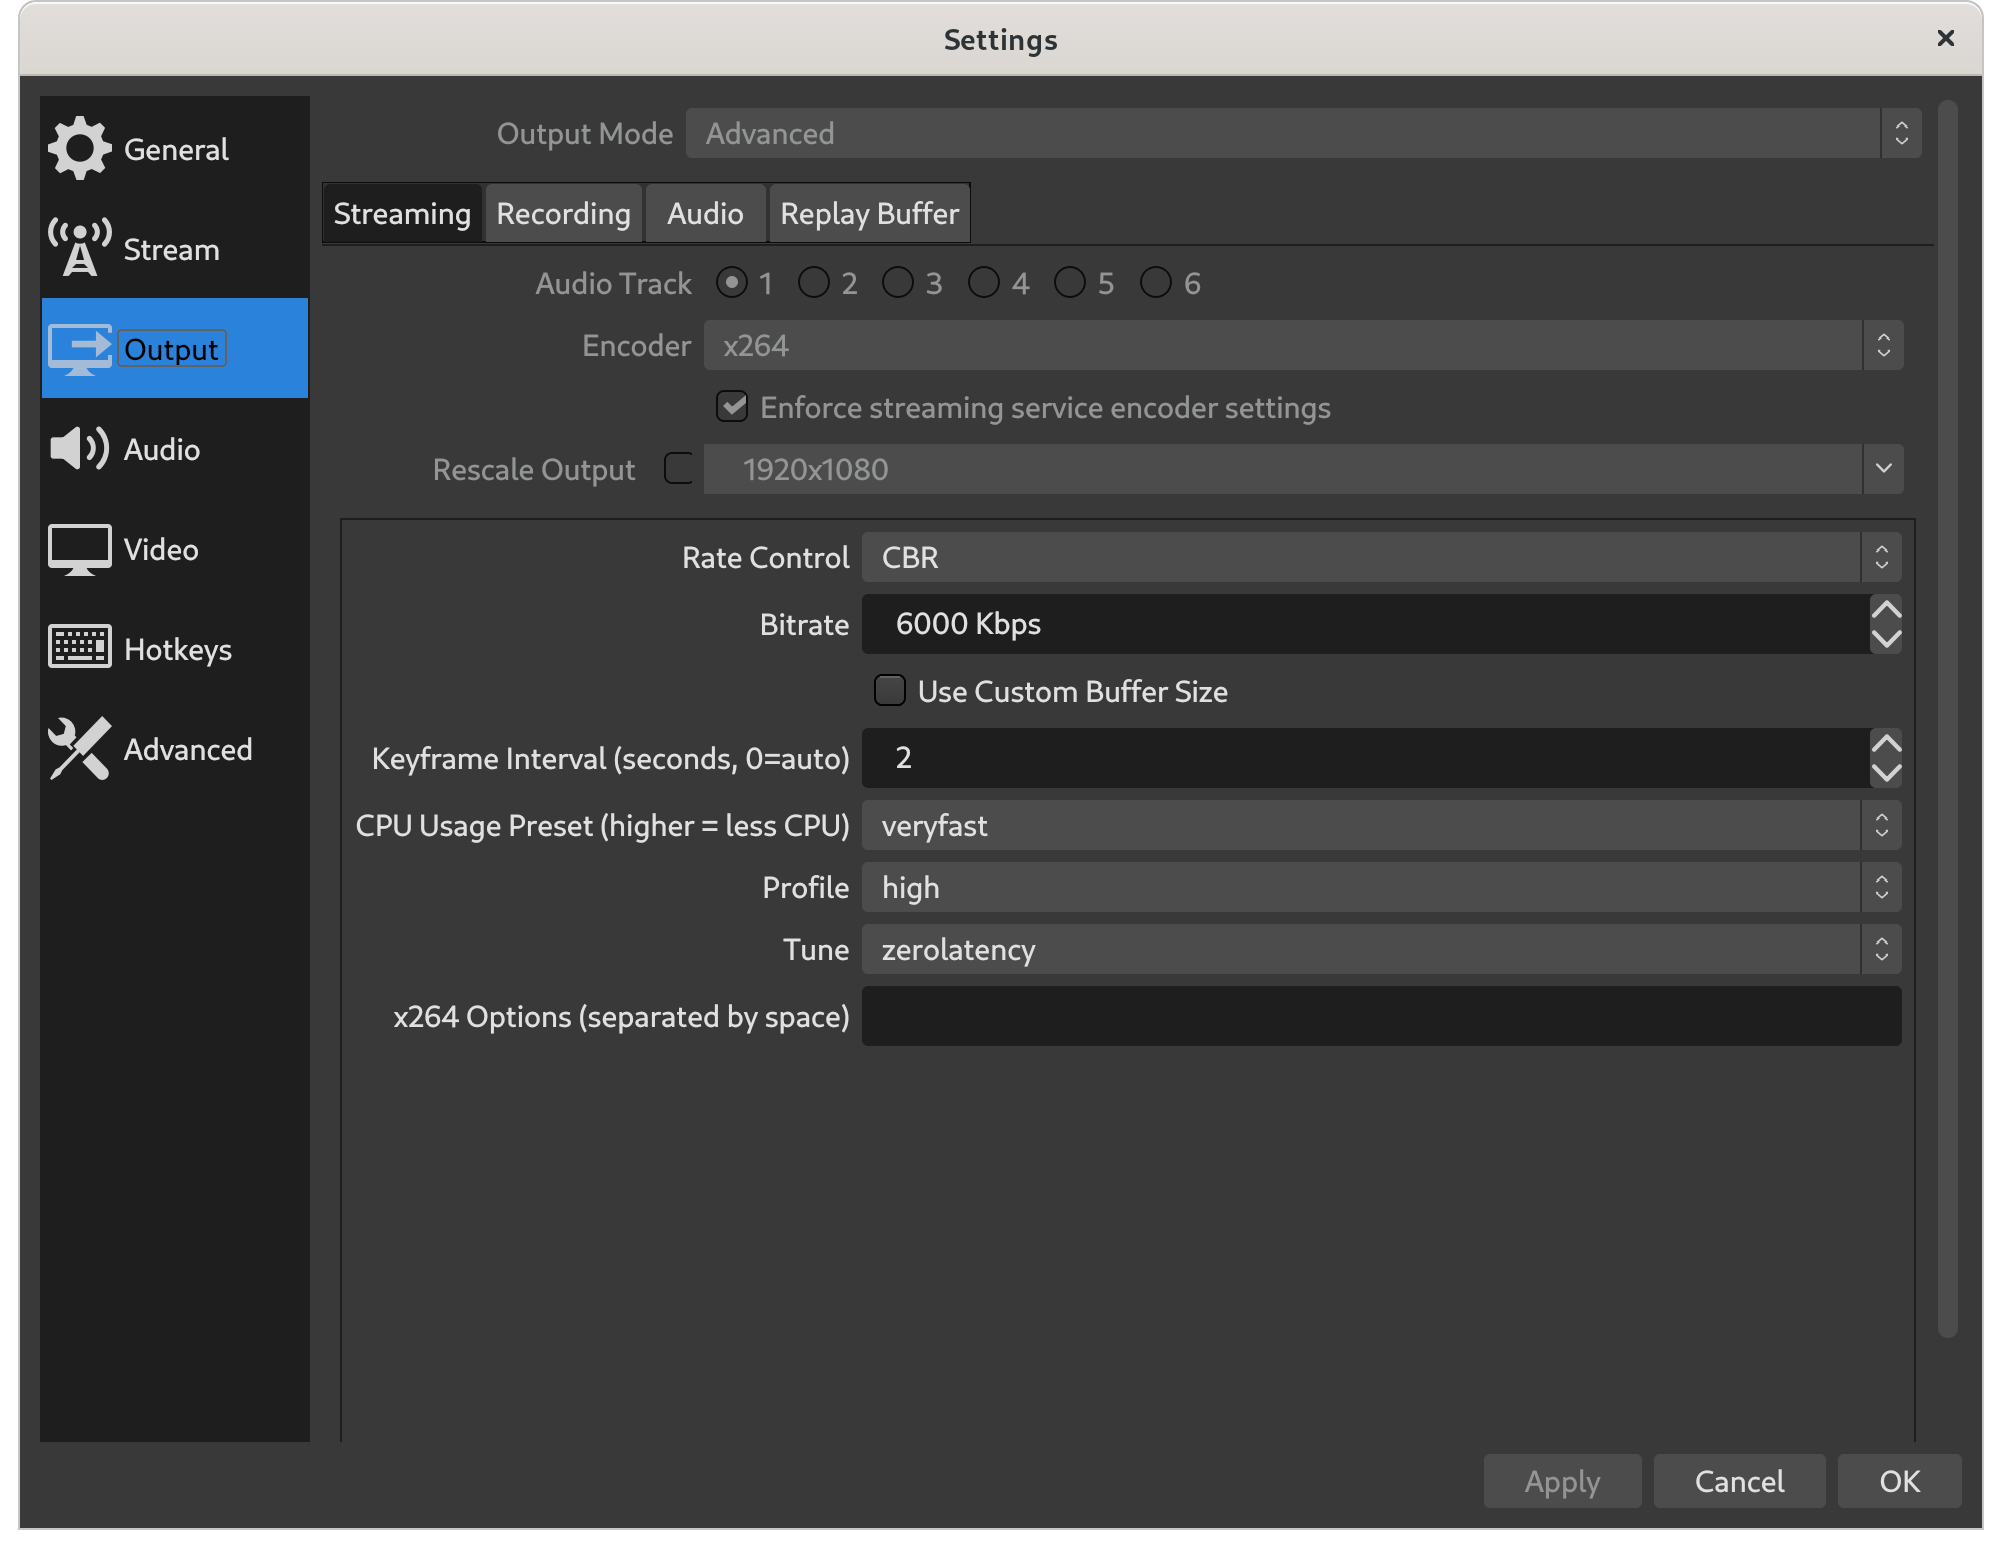
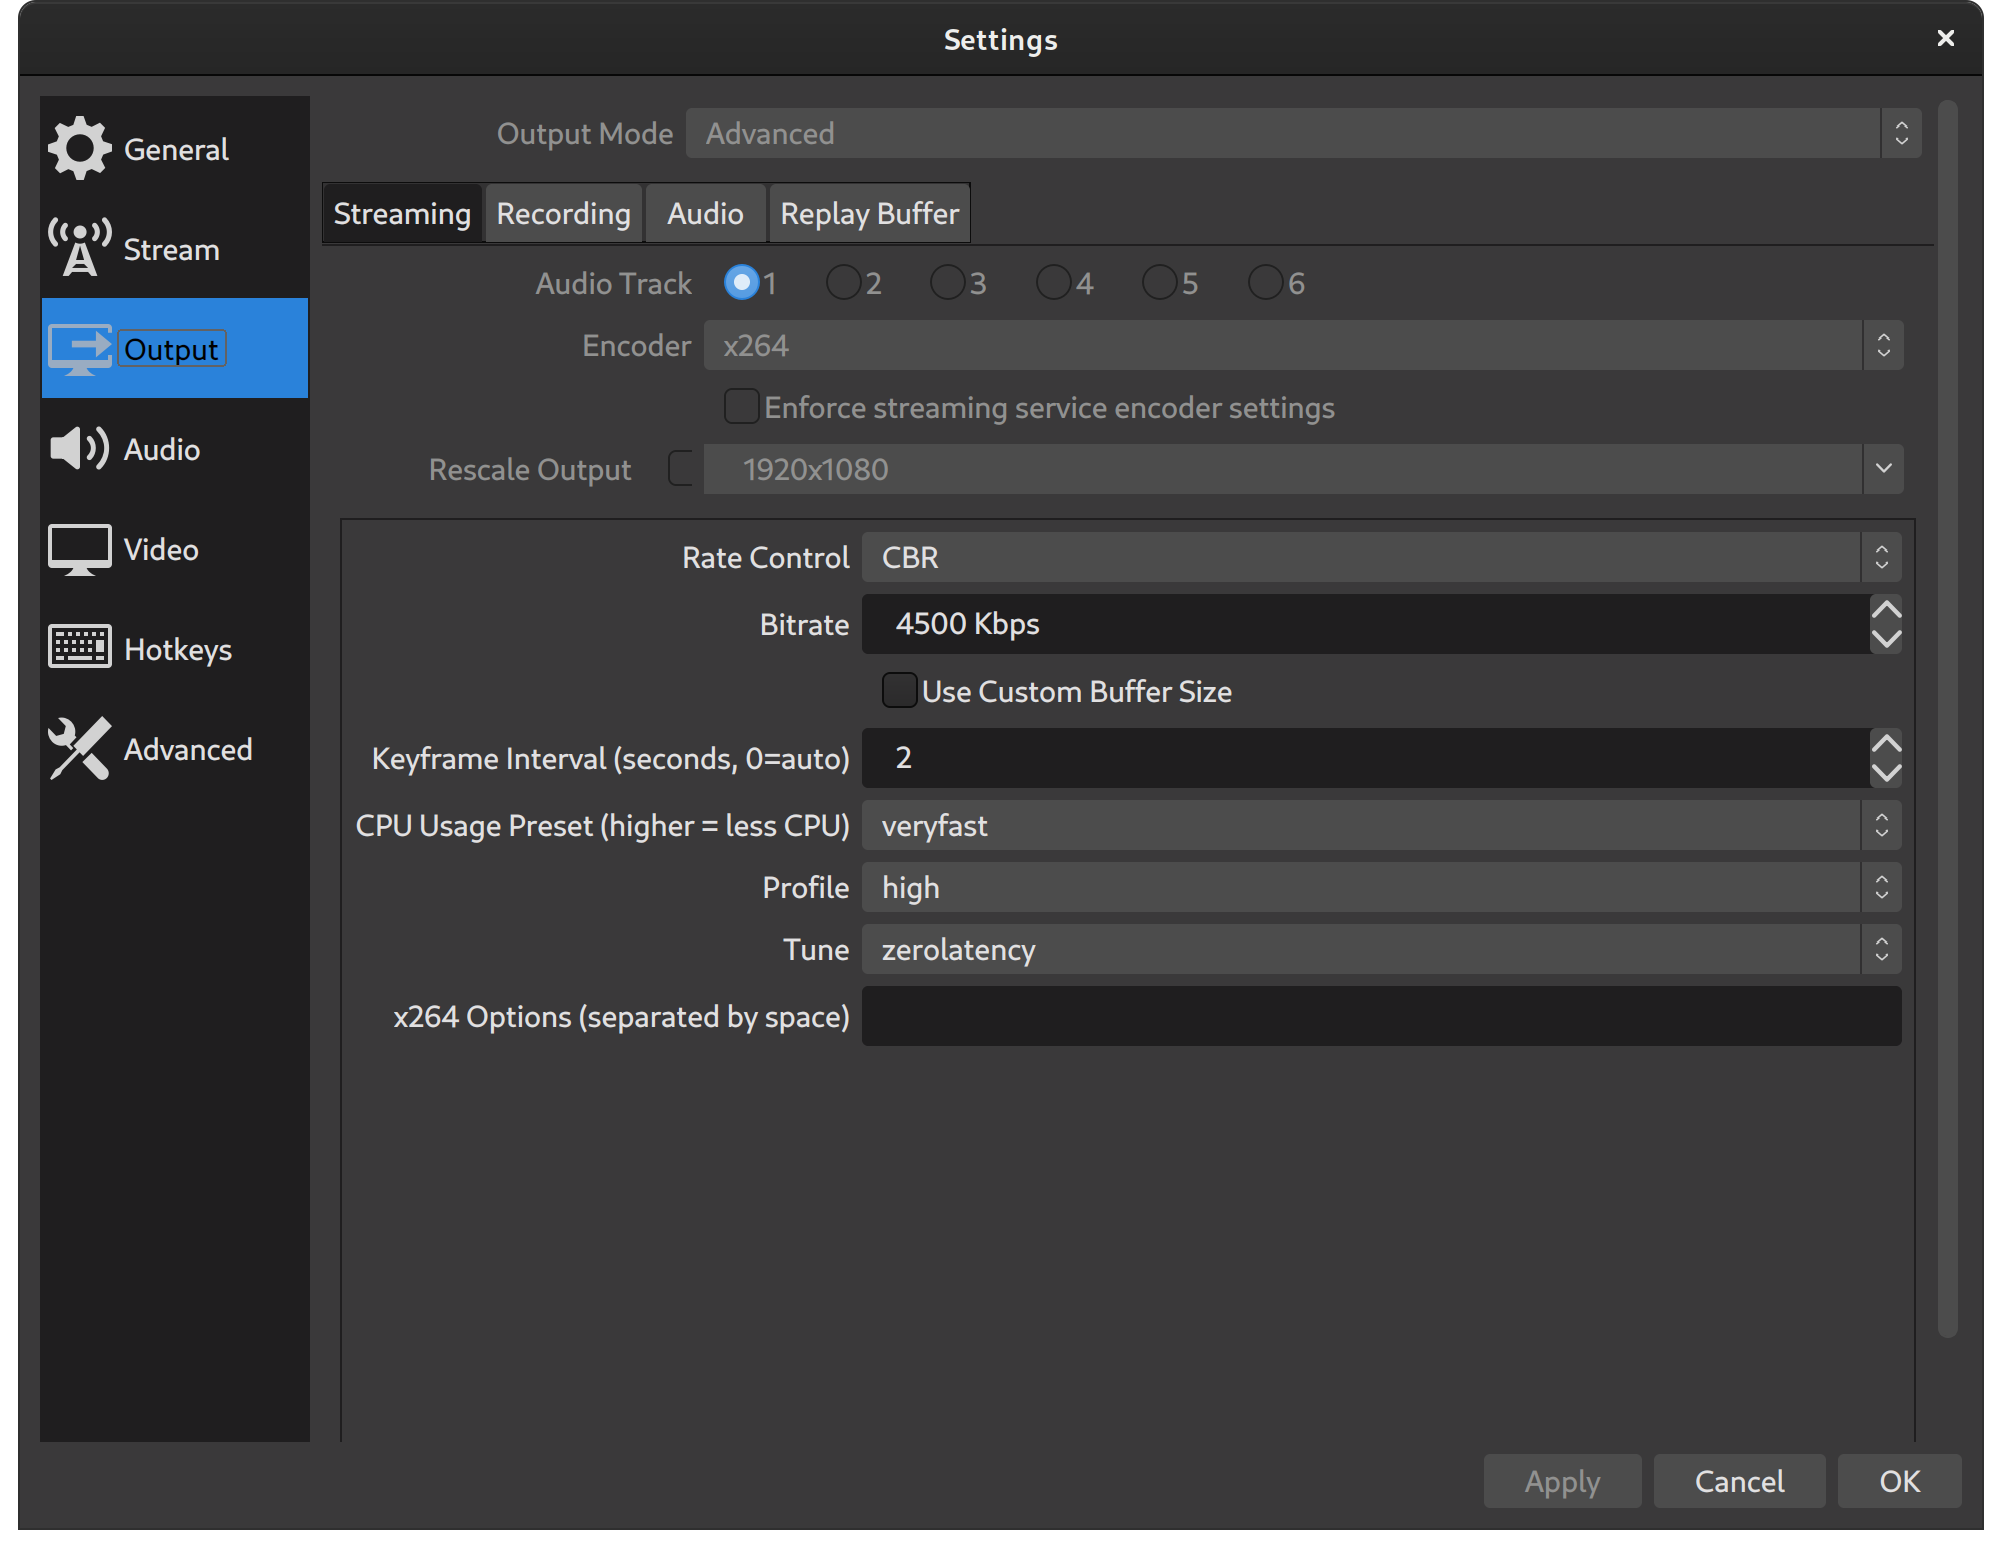
Updates to Streamers Guide, Continuity Plan, and OBS settings

diff --git a/streamers-guide.md b/streamers-guide.md
@@ -8,7 +8,9 @@ Streamers are the ones that will be making sure the content lands on Twitch/YouT
 
 ## Bandwidth
 
-If you have a lower end upload speed, streaming is possible but 720p and 1080p streams require at least 5 Mbps of upload bandwidth. Keep in mind, other things on your network contend for this bandwidth. While we don't intend to stream in 4K, it's worth mentioning, the upload bandwidth requirements for broadcasting 4K video is 25 Mbps.
+If you have a lower end upload speed, streaming is possible but 720p and 1080p streams require at least 5 Mbps of upload bandwidth. Keep in mind, other things on your network contend for this bandwidth. Also, you'll be watching the stream too which takes additional bandwidth. It racks up fast so your mileage may vary.
+
+While we don't intend to stream in 4K, it's worth mentioning, the upload bandwidth requirements for broadcasting 4K video is 25 Mbps.
 
 ## Equipment
 
@@ -26,13 +28,7 @@ Computer A will be the box from which you speak, present, etc. to the audience o
 
 Computer B will be the machine that runs [OBS](https://obsproject.com/) to broadcast the Zoom call to the streaming platform(s). This computer should be able to handle the demand of encoding video feeds and streaming them. For example, an 8th generation Intel i3 is the minimum platform being recommended.
 
-The good news is there are other people capable of doing the streaming on your behalf, so do not feel like you have to do it all yourself.
-
-These streamers include:
-
-* @chris-short
-* @thoraxe
-* TODO: Add more streamers
+The good news is there are other people that have figured this out, so do not feel like you have to do it all yourself. If you have questions, ask away in an Issue or PR (or DM is fine too).
 
 ### Equipment suggestions
 
@@ -88,7 +84,7 @@ In order to use various overlays and alerts on Twitch, a browser plugin is avail
 
 If your on stream video is laggy, lagging significantly, or jittering tuning the x264 CPU Usage preset on your device might help.
 
-The bitrate should be set to 6000 Kbps due to the 1080p@30fps requirement. This bitrate is the amount of data you send when you stream. If you have an upload speed of less than 6000 Kbps, you should not be a [Streamer](https://github.com/cloud-platforms-streaming/streaming-docs#streamers).
+The bitrate should be set to 4500 Kbps due to the 1080p@30fps requirement. This bitrate is the amount of data you send when you stream. If you have an upload speed of less than 4500 Kbps, you should not be a [Streamer](https://github.com/cloud-platforms-streaming/streaming-docs#streamers).
 
 You should be using a setting of veryfast (but superfast or ultrafast might be necessary depending on your setup). The higher the setting the better performance. But, the lower the quality; there's a sacrifice. This is device-specific; testing is required. "The image may look a bit blockier or pixelated, but you will be able to retain your resolution/fps."
 

diff --git a/continuity.md b/continuity.md
@@ -4,7 +4,7 @@ As of 2020-09-28
 
 ## People
 
-Currently [Chris Short](https://github.com/chris-short) streams and produces (as well as, hosts as needed) the majority of shows on [openshift.tv](https://openshift.tv). But, in case Chris is unavailable due to technical or other issues we've lined up the following folks to help cover the [Streamers](https://github.com/cloud-platforms-streaming/streaming-docs#streamers) and [Producers]() responsibilities. Please understand, this isn't their full time responsibility and when working together, more communication is better than less:
+Currently [Chris Short](https://github.com/chris-short) streams and produces (as well as, hosts as needed) the majority of shows on [openshift.tv](https://openshift.tv). But, in case Chris is unavailable due to technical or other issues we've lined up the following folks to help cover the [Streamers](https://github.com/cloud-platforms-streaming/streaming-docs#streamers) and [Producers](https://github.com/cloud-platforms-streaming/streaming-docs/blob/master/README.md#producers) responsibilities. Please understand, this isn't their full time responsibility and when working together, more communication is better than less:
 
 * Erik Jacobs ([thoaraxe](https://github.com/thoraxe))  
 * Langdon White ([langdon](https://github.com/langdon))  
@@ -18,6 +18,8 @@ Please use the [OpenShift Twitch Stream Topic Proposal](https://red.ht/streamfor
 ## Process
 
 If the slotted Streamer/Producer is unable to stream but, able to communicate they should inform the next in line of their issues and need to handoff responsibilities as soon as possible. If the next inline isn't available, keep going down the list.
+
+If you plan on being out for prescheduled shows please find a replacement for yourself early. Be sure they have the same invites you have, and definitely check-in with them the day before to make sure they realize what year it is.
 
 ## Tools (or How)
 

diff --git a/README.md b/README.md
@@ -78,3 +78,9 @@ In the case of a previously scheduled show, any time/date changes need to be sha
 In the case of an emergency (presenter power outage, connectivity issues, etc.) on the day of a scheduled show, you will need to contact an Executive Producer as soon as possible to reschedule. Do not try to pull off heroics to get on a live stream. We can always apologize for the technical difficulties and reschedule. If there are issues with a streaming service itself, the show's producer will have to decide on the spot to postpone or continue.
 
 Shows involving outside or external guests/partners/customers will always take precedence over shows with only Red Hatters.
+
+### Continuity Plan
+
+If you plan on being out for prescheduled shows please find a replacement for yourself early. Be sure they have the same invites you have, and definitely check-in with them the day before to make sure they realize what year it is.
+
+[Continuity Plan](https://github.com/cloud-platforms-streaming/streaming-docs/blob/master/continuity.md#continuity-plan)
